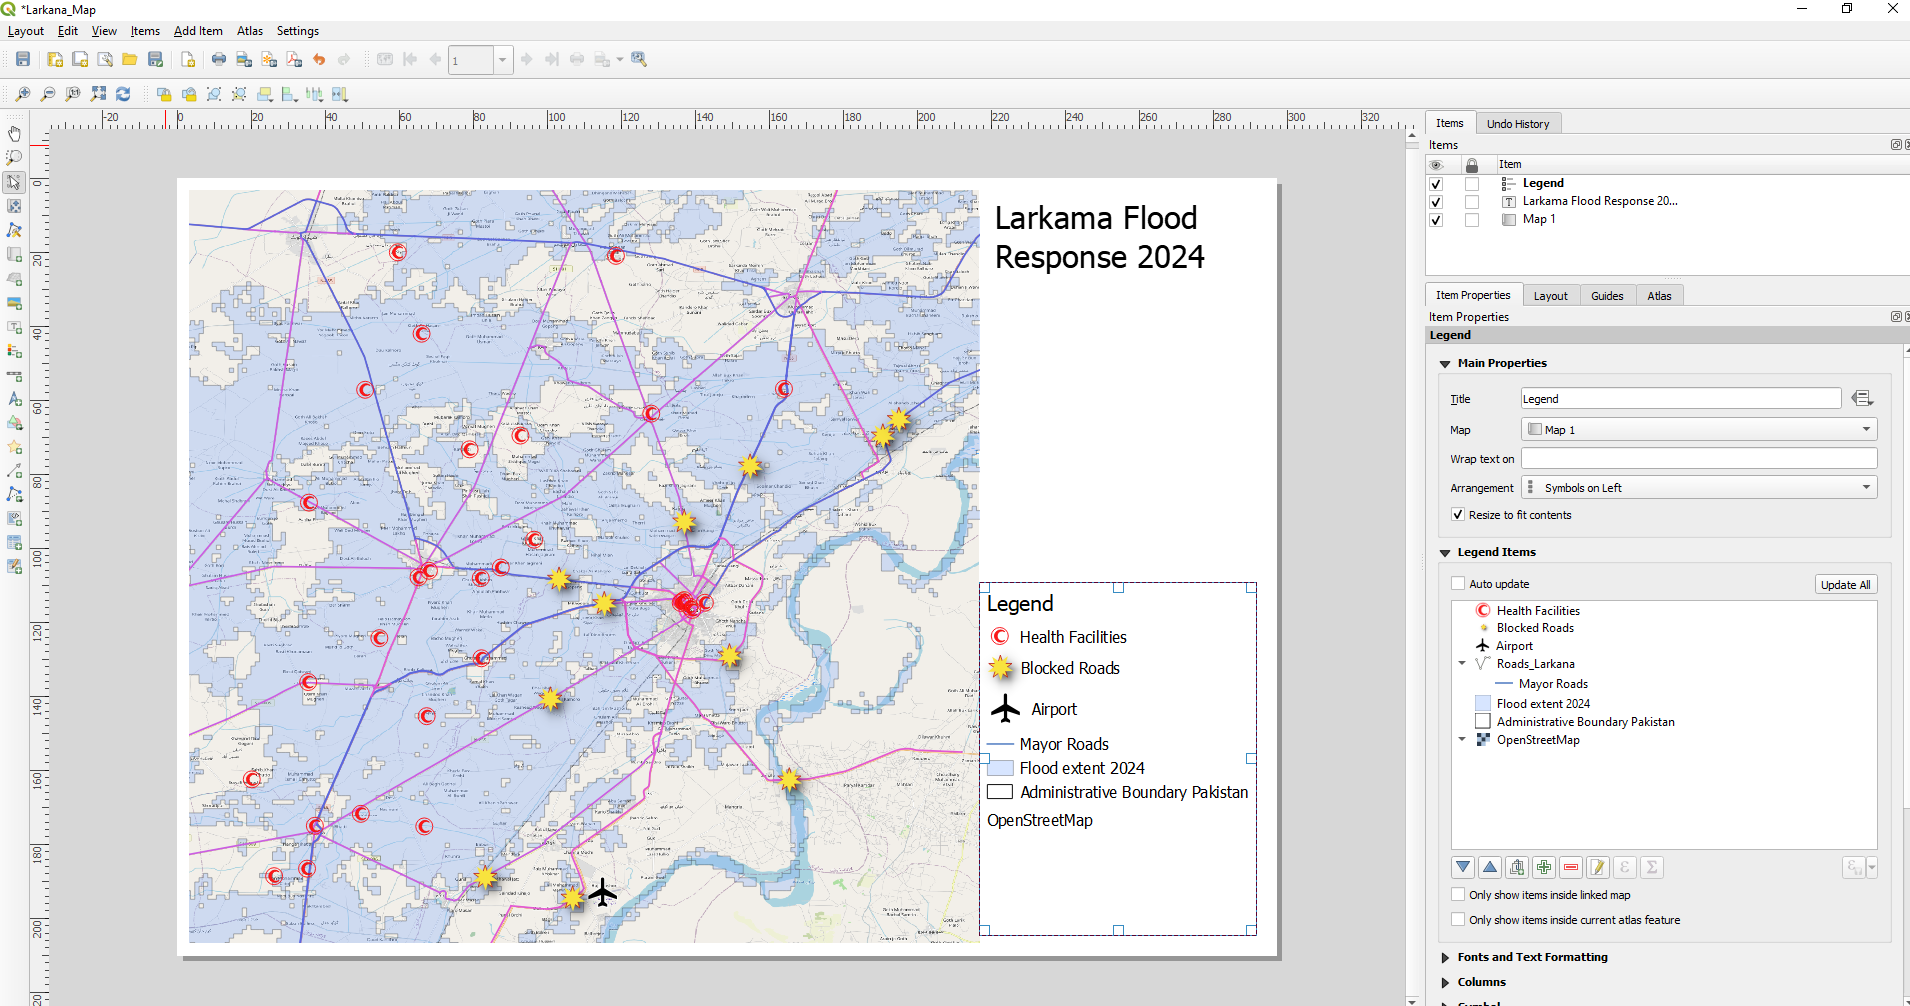
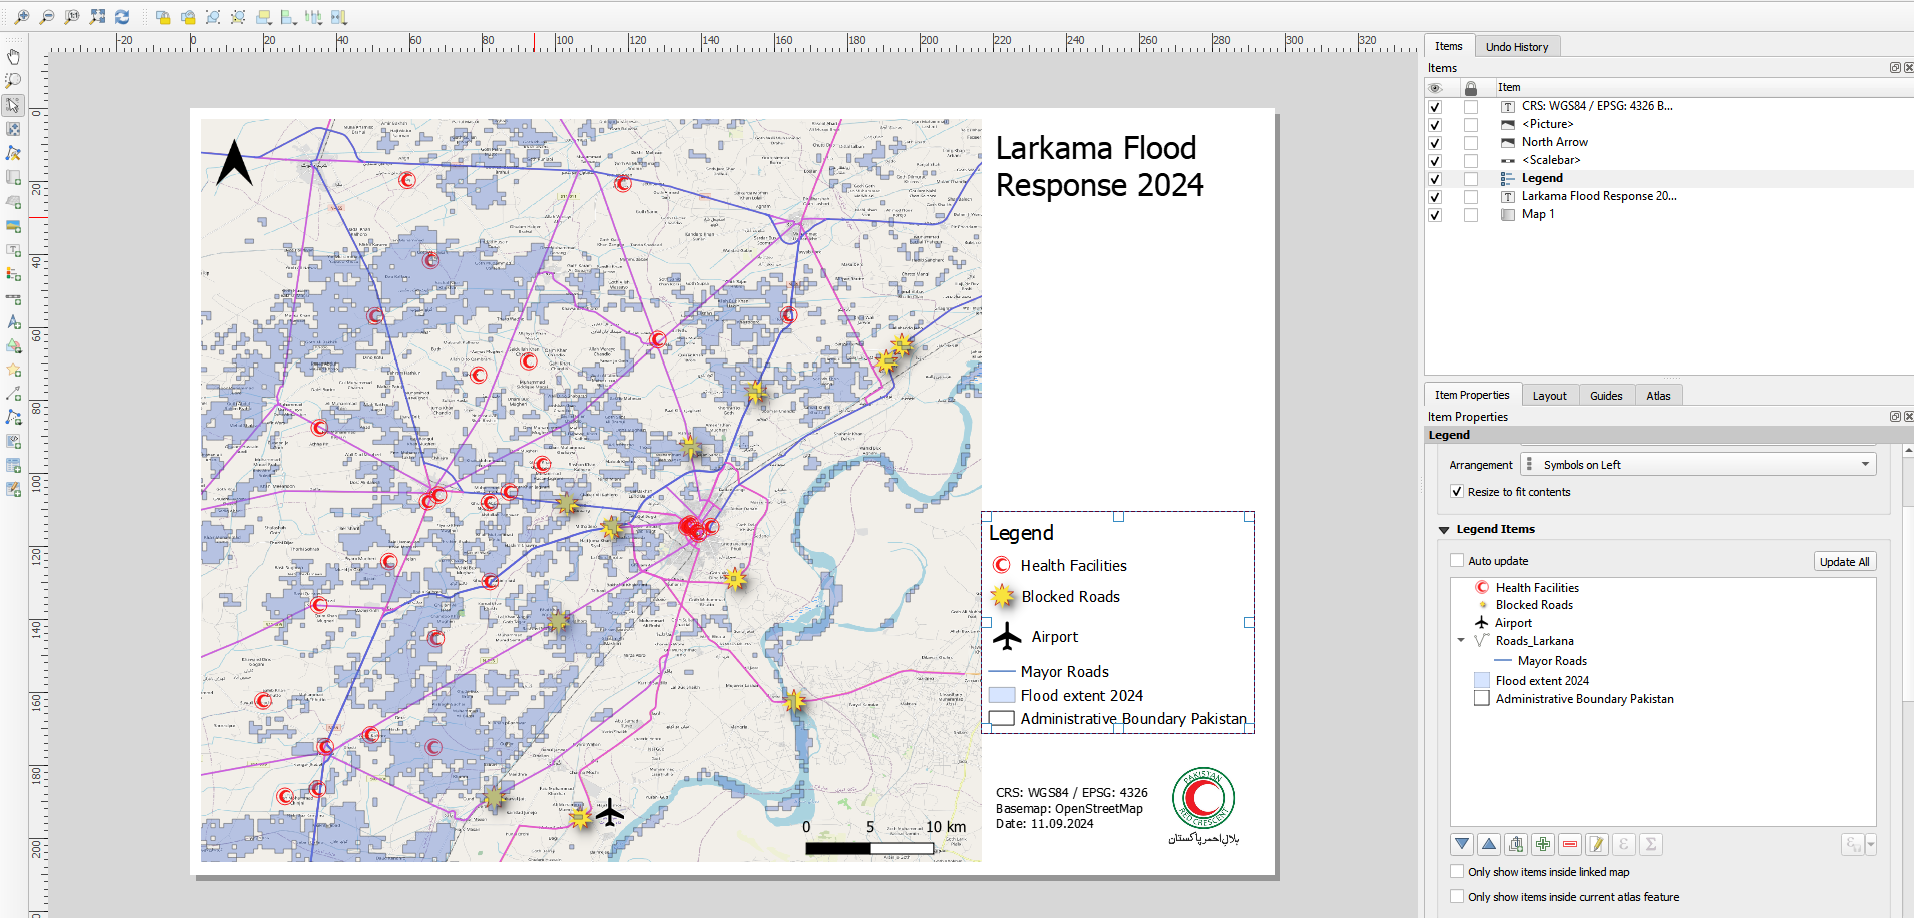
abcd

diff --git a/content/Modul_4/en_qgis_map_design_I_ex4.md b/content/Modul_4/en_qgis_map_design_I_ex4.md
@@ -51,17 +51,14 @@ In 2024, the provinces of Punjab, Sindh, and Balochistan in Pakistan experienced
 
 ### Available Data
 
-:::{card}
-:link: https://data.humdata.org/dataset/hotosm_pak_health_facilities
-__Download all datasets [here]() and save the folder on your computer and unzip the file.__
-:::
+You have created the data for Larkana in [Module 3, Exercise 4](https://giscience.github.io/gis-training-resource-center/content/Modul_3/en_qgis_module_3_ex2.html). In order to conduct this exercise please create a folder on your computer and copy your entire folder structure of Exercise 4 in there. In case you did not do Module 4 - Exercise 4 you can download the data [here](). Save the folder on your computer an unzip the file.
 
 
 | Dataset name| Origonal title|Publisher|Download from| 
 | :-------------------- | :----------------- |:----------------- |:----------------- |
 | PAK_adm2_Sindh.gpkg | [Subnational Administrative Boundaries](https://data.humdata.org/dataset/cod-ab-pak) |UN OCHA | HDX |
 | PAK_Sind_Health_Facilities.gpkg |  [Pakistan Health Facilities (OpenStreetMap Export)](https://data.humdata.org/dataset/hotosm_pak_health_facilities) |Humanitarian OpenStreetMap Team (HOT) | HDX |
-|  VIIRS_20240721_20240803_MaximumFloodExtent_PAK.shp & VIIRS_20240721_20240803_MinimumFloodExtent_PAK.shp | [Satellite detected water extents from 08 to 12 August 2024 over Pakistan)](https://data.humdata.org/dataset/satellite-detected-water-extents-from-08-to-12-august-2024-over-pakistan) |UNO SAT | HDX |
+| VIIRS_20240721_20240803_MinimumFloodExtent_PAK.shp | [Satellite detected water extents from 08 to 12 August 2024 over Pakistan)](https://data.humdata.org/dataset/satellite-detected-water-extents-from-08-to-12-august-2024-over-pakistan) |UNO SAT | HDX |
 
 <!--ADD: Add an explanation how to create the healthsite dataset by combining points and polygons -->
 
@@ -80,7 +77,7 @@ The exercise data should be saved in a location where you can easily find them a
 - Healthsites: `Health_Facilities_Flood_2024_AOI.gpkg`
 - Roads:`Roads_Larkana.gpkg`
 - Blocked Roads Points: `PAK_flood_2024_blocked_road.gpkg`
-- Flood Extent 2024: `Flood_extand_PAK_2024_Maximum_Flood_Extend_reprojected_fix.gpkg`
+- Flood Extent 2024 reprojected: `PAK_2024_Minimum_Flood_Extend_reprojected.gpkg`
 - Administrative Boundaries Sindh: `PAK_Sindh_amd2.shp`
 
 Save your project and give it a clear name, e.g. "Larkana_flood_response"
@@ -207,7 +204,7 @@ Now we can use an icon instead of just a point to display the layer __“PAK_air
 
 __Flood Extent__
 
-Open the __Symbology Tab__ for the `Flood_extand_PAK_2024_Maximum_Flood_Extend_reprojected_fix`-layer. Choose a light-blue as color and adjust the opacity to about 30%.
+Open the __Symbology Tab__ for the `PAK_2024_Minimum_Flood_Extend_reprojected`-layer. Choose a light-blue as color and adjust the opacity to about 30%.
 
 __Administrative Boundaries__
 
@@ -296,6 +293,8 @@ Create a new Print Layout
     - Click on ![Add text icon](/fig/30.30.2_print_layout_add_text.png) (`Add text`)
     - Drag a rectangle on the canvas
     - In the item properties window on the right, you will find a text box with the text "Lorem ipsum". Here you can enter some additional information of the map, e.g. the coordinate system, basemap information or date.
+
+When you are finished with your map design you can export your printable map as image or pdf under `Layout`--> `Export as Image` or `Export as PDF`
 
 You could now have as a result a map similar to this one. Here, some space has been left in order to implement an overview map. If you are still have time go for the bonus exercise and add an overview map!
 
